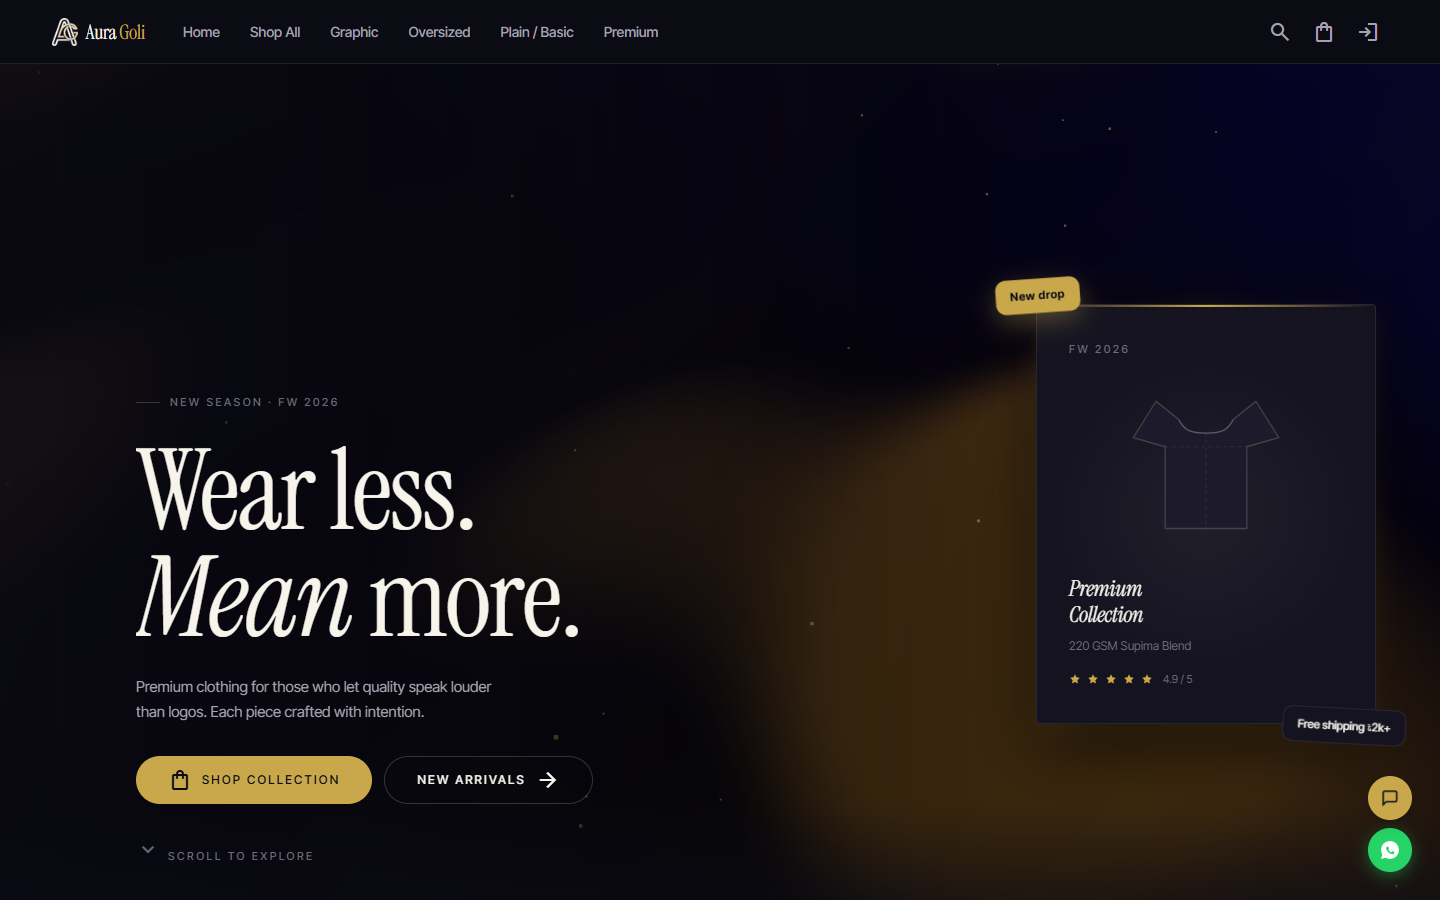
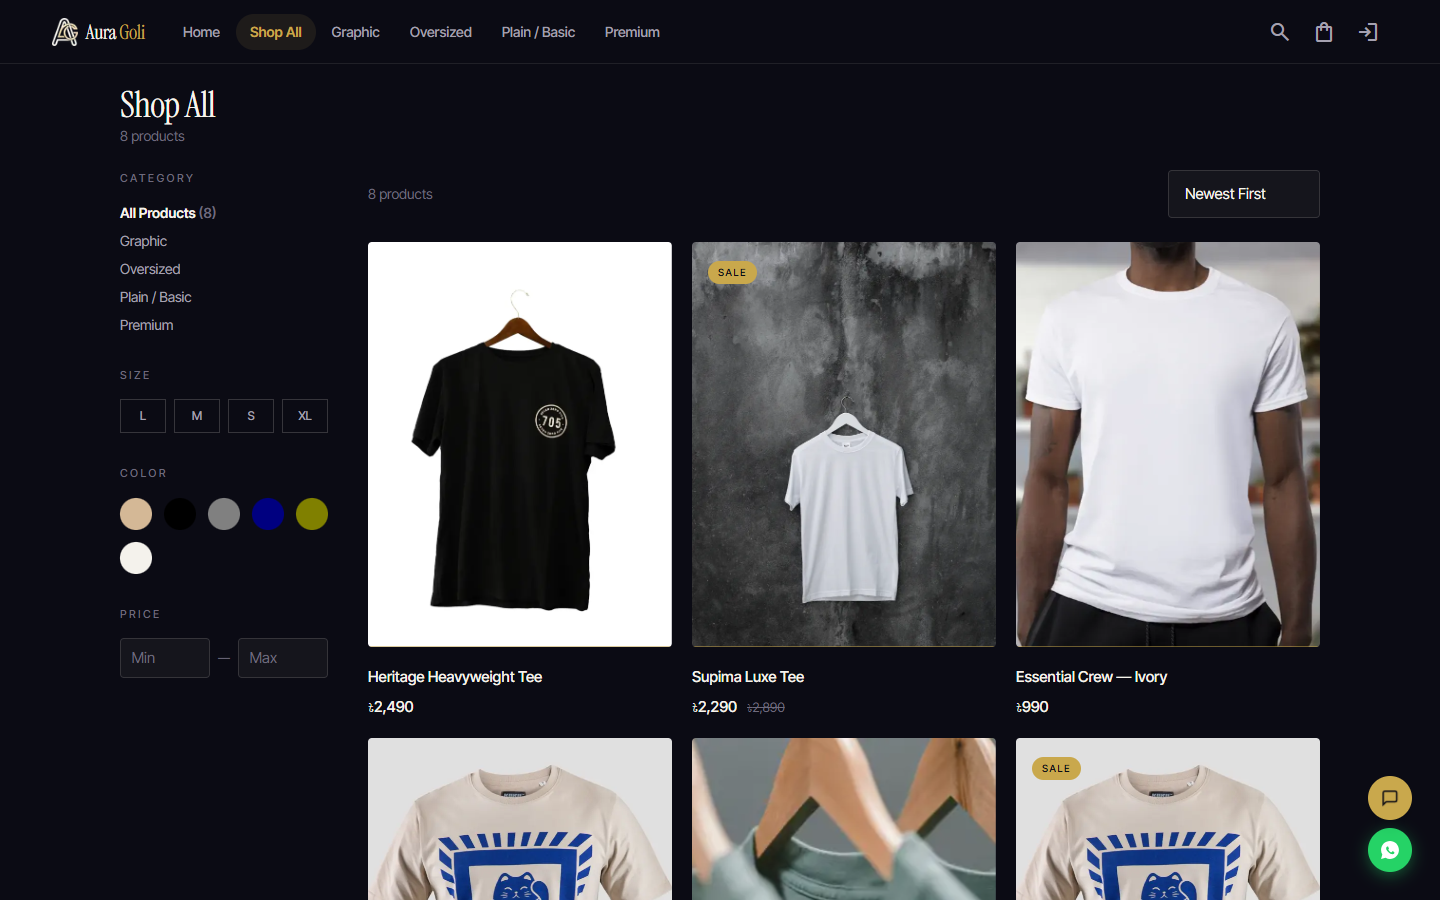
Visual polish: balanced headings, unified buttons, aligned grids
- text-wrap: balance on headings (no one-word widows); hero accent phrase never splits
- Hero glow bleeds instead of ending in a hard edge; 404 and thank-you use PageHero
- All CTAs go through ButtonLink (one primary, one secondary style)
- Pricing badge no longer pushes its card out of line; serif prices; process grid has no orphans
- Service cards get breathing room; avatar shown at a retina-sharp size
- Aura Goli screenshot now shows the shop page (no unverified rating)

diff --git a/app/page.tsx b/app/page.tsx
@@ -81,7 +81,7 @@ export default function Home() {
             <span className="hidden sm:inline">Web development studio · </span>Dhaka → worldwide
           </p>
           <h1 className="reveal mx-auto mt-6 max-w-5xl text-6xl leading-[0.95] sm:text-8xl lg:text-[6.5rem]" style={{ ["--d" as string]: "80ms" }}>
-            Websites, online stores and web apps, <span className="text-gradient">built properly.</span>
+            Websites, online stores and web apps, <span className="text-gradient whitespace-nowrap">built properly.</span>
           </h1>
           <p className="reveal mx-auto mt-7 max-w-2xl text-lg leading-relaxed text-muted" style={{ ["--d" as string]: "160ms" }}>
             Zordev is a small studio run by {site.owner.name}. Shipped on a fixed scope, and you work directly with the developer who builds it.
@@ -167,15 +167,15 @@ export default function Home() {
               className="group relative flex min-h-[26rem] flex-col bg-surface p-8 transition-colors duration-300 hover:bg-surface-2 focus-visible:outline-offset-[-4px]"
             >
               <div className="flex items-center justify-between">
-                <span className="font-mono text-xs text-orange">0{i + 1}</span>
-                <span className="flex h-10 w-10 items-center justify-center rounded-full border border-line-strong text-ink transition-all duration-300 group-hover:-rotate-45 group-hover:border-orange group-hover:bg-orange group-hover:text-[#0c0c0c]">
+                <span aria-hidden="true" className="font-mono text-xs text-orange">0{i + 1}</span>
+                <span aria-hidden="true" className="flex h-10 w-10 items-center justify-center rounded-full border border-line-strong text-ink transition-all duration-300 group-hover:-rotate-45 group-hover:border-orange group-hover:bg-orange group-hover:text-[#0c0c0c]">
                   →
                 </span>
               </div>
-              <div className="mt-10 flex h-28 items-end transition-transform duration-500 group-hover:-translate-y-1">{serviceArt[s.slug]}</div>
+              <div aria-hidden="true" className="mt-10 flex h-28 items-end transition-transform duration-500 group-hover:-translate-y-1">{serviceArt[s.slug]}</div>
               <h3 className="mt-10 text-4xl leading-none text-ink">{s.title}</h3>
-              <p className="mt-4 leading-relaxed text-muted">{s.short}</p>
-              <p className="mt-auto flex items-center justify-between border-t border-line pt-5 font-mono text-xs text-muted">
+              <p className="mb-8 mt-4 leading-relaxed text-muted">{s.short}</p>
+              <p className="mt-auto flex items-center justify-between gap-3 whitespace-nowrap border-t border-line pt-5 font-mono text-xs text-muted">
                 <span>
                   from <span className="text-ink">{usd(s.fromPrice)}</span>
                 </span>

diff --git a/components/layout/Footer.tsx b/components/layout/Footer.tsx
@@ -2,7 +2,7 @@ import Link from "next/link";
 import { services } from "@/content/services";
 import { cta, site } from "@/content/site";
 import { sortedCaseStudies } from "@/content/work";
-import { Container } from "@/components/ui";
+import { ButtonLink, Container } from "@/components/ui";
 import { Marquee } from "@/components/ui/Marquee";
 import { DhakaClock } from "./DhakaClock";
 import { Logo } from "./Logo";
@@ -41,15 +41,10 @@ export function Footer() {
           <div className="mt-8 rounded-2xl border border-line bg-surface p-5">
             <DhakaClock />
             <div className="mt-5 flex flex-wrap gap-2 border-t border-line pt-5">
-              <Link
-                href={cta.primary.href}
-                data-umami-event="cta_click"
-                data-umami-event-location="footer"
-                className="magnetic inline-flex items-center rounded-full bg-orange px-4 py-2 text-sm font-medium text-[#0c0c0c] hover:bg-ink"
-              >
-                {cta.primary.label} →
-              </Link>
-              <a href={`mailto:${site.email}`} className="inline-flex items-center rounded-full border border-line-strong px-4 py-2 text-sm text-ink transition-colors hover:border-orange hover:text-orange">
+              <ButtonLink href={cta.primary.href} location="footer">
+                {cta.primary.label}
+              </ButtonLink>
+              <a href={`mailto:${site.email}`} className="inline-flex min-h-12 items-center rounded-full border border-line-strong px-5 text-sm text-ink transition-colors hover:border-orange hover:text-orange">
                 {site.email}
               </a>
             </div>

diff --git a/app/not-found.tsx b/app/not-found.tsx
@@ -1,24 +1,19 @@
-import { ButtonLink, Container } from "@/components/ui";
+import { ButtonLink, PageHero } from "@/components/ui";
 
 export const metadata = { title: "Page not found", robots: { index: false } };
 
 export default function NotFound() {
   return (
-    <section className="relative overflow-hidden"><div aria-hidden="true" className="pointer-events-none absolute -top-40 right-0 h-[28rem] w-[28rem] rounded-full bg-orange/[0.07] blur-[120px]" />
-      <Container className="relative py-28">
-        <p className="font-mono text-sm text-orange">404</p>
-        <h1 className="mt-5 text-6xl leading-[0.98] sm:text-8xl">This page doesn't exist.</h1>
-        <p className="mt-5 max-w-lg text-lg text-muted">The link may be old or mistyped. Here are a few places to go instead.</p>
-        <div className="mt-9 flex flex-wrap gap-3">
-          <ButtonLink href="/">Home</ButtonLink>
-          <ButtonLink href="/work" variant="ghostDark">
-            See the work
-          </ButtonLink>
-          <ButtonLink href="/contact" variant="ghostDark">
-            Contact
-          </ButtonLink>
-        </div>
-      </Container>
-    </section>
+    <PageHero eyebrow="404" title="This page doesn't exist." intro="The link may be old or mistyped. Here are a few places to go instead.">
+      <div className="flex flex-wrap gap-3">
+        <ButtonLink href="/">Home</ButtonLink>
+        <ButtonLink href="/work" variant="ghost">
+          See the work
+        </ButtonLink>
+        <ButtonLink href="/contact" variant="ghost">
+          Contact
+        </ButtonLink>
+      </div>
+    </PageHero>
   );
 }

diff --git a/app/thank-you/page.tsx b/app/thank-you/page.tsx
@@ -1,6 +1,6 @@
 import Link from "next/link";
 import { ThankYouNext } from "@/components/forms/ThankYouNext";
-import { Container, Section } from "@/components/ui";
+import { PageHero, Section } from "@/components/ui";
 import { site } from "@/content/site";
 
 export const metadata = { title: "Thanks for your brief", robots: { index: false, follow: false } };
@@ -8,15 +8,15 @@ export const metadata = { title: "Thanks for your brief", robots: { index: false
 export default function ThankYouPage() {
   return (
     <>
-      <section className="relative overflow-hidden"><div aria-hidden="true" className="pointer-events-none absolute -top-40 right-0 h-[28rem] w-[28rem] rounded-full bg-orange/[0.07] blur-[120px]" />
-        <Container className="relative py-20">
-          <p className="font-mono text-xs uppercase tracking-[0.2em] text-orange">Brief received</p>
-          <h1 className="mt-5 text-6xl leading-[0.98] sm:text-8xl">Thanks, I've got it.</h1>
-          <p className="mt-5 max-w-xl text-lg text-muted">
-            A confirmation is on its way to your inbox. I'll read your brief myself and reply {site.commitments.replySla}.
-          </p>
-        </Container>
-      </section>
+      <PageHero
+        eyebrow="Brief received"
+        title={
+          <>
+            Thanks, I&apos;ve <em className="text-orange">got it.</em>
+          </>
+        }
+        intro={`A confirmation is on its way to your inbox. I'll read your brief myself and reply ${site.commitments.replySla}.`}
+      />
       <Section>
         <div className="grid gap-10 md:grid-cols-2">
           <div>

diff --git a/app/contact/page.tsx b/app/contact/page.tsx
@@ -1,6 +1,6 @@
 import { Booking } from "@/components/forms/Booking";
 import { ContactForm } from "@/components/forms/ContactForm";
-import { Heading, Section, T, PageHero } from "@/components/ui";
+import { ButtonLink, Heading, Section, T, PageHero } from "@/components/ui";
 import { site } from "@/content/site";
 import { pageMeta } from "@/lib/seo";
 
@@ -15,8 +15,12 @@ export default function ContactPage() {
     <>
       <PageHero eyebrow="Contact" title={<>Let&apos;s build <span className="text-gradient">something good.</span></>} intro={`Two ways to start. Either way, you will hear back from me ${site.commitments.replySla}.`}>
         <div className="flex flex-wrap gap-3">
-          <a href="#book" data-umami-event="cta_click" data-umami-event-location="contact_hero_book" className="magnetic rounded-full bg-orange px-5 py-3 text-sm font-semibold text-[#0c0c0c]">Book a 20-minute call</a>
-          <a href="#brief" data-umami-event="cta_click" data-umami-event-location="contact_hero_brief" className="rounded-full border border-line-strong px-5 py-3 text-sm font-semibold hover:border-ink">Send a project brief</a>
+          <ButtonLink href="#book" location="contact_hero_book">
+            Book a 20-minute call
+          </ButtonLink>
+          <ButtonLink href="#brief" variant="ghost" location="contact_hero_brief">
+            Send a project brief
+          </ButtonLink>
         </div>
       </PageHero>
 

diff --git a/app/pricing/page.tsx b/app/pricing/page.tsx
@@ -28,17 +28,17 @@ export default function PricingPage() {
           {packages.map((p) => (
             <div
               key={p.id}
-              className={`flex flex-col rounded-2xl border p-7 ${p.highlighted ? "border-orange shadow-lg ring-1 ring-orange" : "border-line"}`}
+              className={`relative flex flex-col rounded-2xl border p-7 ${p.highlighted ? "border-orange shadow-lg ring-1 ring-orange" : "border-line"}`}
             >
               {p.highlighted && (
-                <div className="mb-3">
-                  <Badge tone="orange">Most experience</Badge>
+                <div className="absolute -top-3 left-7">
+                  <Badge tone="orange">Most built</Badge>
                 </div>
               )}
-              <h2 className="text-xl">{p.name}</h2>
-              <p className="mt-1 text-sm text-muted">{p.suits}</p>
+              <h2 className="text-3xl">{p.name}</h2>
+              <p className="mt-1 min-h-[2lh] text-sm text-muted">{p.suits}</p>
               <p className="mt-5 text-sm text-muted">From</p>
-              <p className="text-4xl font-bold">{usd(p.fromPrice)}</p>
+              <p className="font-display text-5xl">{usd(p.fromPrice)}</p>
               <p className="mt-1 font-mono text-xs text-muted">{p.timeline}</p>
               <ul className="mt-6 space-y-2 text-sm">
                 {p.includes.map((i) => (

diff --git a/components/sections/PriceEstimator.tsx b/components/sections/PriceEstimator.tsx
@@ -1,6 +1,6 @@
 "use client";
 
-import Link from "next/link";
+import { ButtonLink } from "@/components/ui";
 import { useState } from "react";
 import type { Package } from "@/content/pricing";
 
@@ -74,17 +74,12 @@ export function PriceEstimator({ packages, addOn }: { packages: Package[]; addOn
             <p className="mt-4 text-sm text-muted">{p.suits}. Final price is fixed after a short call, for an agreed scope.</p>
           </div>
           <div className="flex flex-wrap gap-3">
-            <Link
-              href="/contact#book"
-              data-umami-event="cta_click"
-              data-umami-event-location="estimator"
-              className="magnetic inline-flex min-h-12 items-center rounded-full bg-orange px-6 font-medium text-[#0c0c0c] hover:bg-ink"
-            >
-              Book a call →
-            </Link>
-            <Link href="/pricing" className="inline-flex min-h-12 items-center rounded-full border border-line-strong px-6 font-medium text-ink hover:border-ink">
+            <ButtonLink href="/contact#book" location="estimator">
+              Book a call
+            </ButtonLink>
+            <ButtonLink href="/pricing" variant="ghost">
               Full pricing
-            </Link>
+            </ButtonLink>
           </div>
         </div>
       </div>

diff --git a/components/forms/ThankYouNext.tsx b/components/forms/ThankYouNext.tsx
@@ -1,6 +1,7 @@
 "use client";
 
 import Link from "next/link";
+import { ButtonLink } from "@/components/ui";
 import { useSyncExternalStore } from "react";
 
 const readQualified = () => {
@@ -23,21 +24,11 @@ export function ThankYouNext({ bookingUrl }: { bookingUrl: string }) {
       <div className="rounded-2xl bg-paper p-7">
         <h2 className="text-2xl">Want to talk sooner?</h2>
         <p className="mt-3 text-muted">Book a free 20-minute call at a time that suits you.</p>
-        {bookingUrl ? (
-          <a
-            href={bookingUrl}
-            target="_blank"
-            rel="noopener"
-            data-umami-event="booking_open"
-            className="mt-6 inline-flex min-h-11 items-center rounded-full bg-orange px-6 py-3 font-medium text-[#0c0c0c] hover:bg-ink"
-          >
+        <div className="mt-6">
+          <ButtonLink href={bookingUrl || "/contact#book"} location="thank_you">
             Book a call
-          </a>
-        ) : (
-          <Link href="/contact#book" className="mt-6 inline-flex min-h-11 items-center rounded-full bg-orange px-6 py-3 font-medium text-[#0c0c0c] hover:bg-ink">
-            Book a call
-          </Link>
-        )}
+          </ButtonLink>
+        </div>
       </div>
     );
   }

diff --git a/app/work/[slug]/page.tsx b/app/work/[slug]/page.tsx
@@ -14,7 +14,7 @@ export async function generateMetadata({ params }: PageProps<"/work/[slug]">) {
   const { slug } = await params;
   const c = getCaseStudy(slug);
   if (!c) return {};
-  return pageMeta(`${c.title} (${c.client.split(" (")[0]})`, c.summary, `/work/${c.slug}`);
+  return pageMeta(`${c.client.split(" (")[0]}: ${c.title} (case study)`, c.summary, `/work/${c.slug}`);
 }
 
 export default async function CaseStudyPage({ params }: PageProps<"/work/[slug]">) {
@@ -35,7 +35,7 @@ export default async function CaseStudyPage({ params }: PageProps<"/work/[slug]"
           { name: c.title, path: `/work/${c.slug}` },
         ])}
       />
-      <section className="relative overflow-hidden border-b border-line">
+      <section className="relative overflow-x-clip border-b border-line">
         
         <div aria-hidden="true" className="pointer-events-none absolute -top-40 right-0 h-[28rem] w-[28rem] rounded-full bg-orange/[0.07] blur-[120px]" />
         <Container className="relative grid items-center gap-12 py-16 sm:py-24 lg:grid-cols-[1.1fr_1fr]">

diff --git a/components/sections/Avatar3D.tsx b/components/sections/Avatar3D.tsx
@@ -40,7 +40,7 @@ export function Avatar3D() {
         style={{ transform: `translate(calc(-50% + ${look.x * 18}px), calc(-50% + ${look.y * 14}px))` }}
       />
       {/* Ground shadow */}
-      <div className="absolute bottom-[13%] left-1/2 h-5 w-40 -translate-x-1/2 rounded-[50%] bg-black/70 blur-md" />
+      <div className="absolute bottom-[24%] left-1/2 h-4 w-28 -translate-x-1/2 rounded-[50%] bg-black/70 blur-md" />
 
       <div className="absolute inset-0 flex items-center justify-center [perspective:900px]">
         <div className="animate-float">
@@ -54,7 +54,7 @@ export function Avatar3D() {
               width={256}
               height={256}
               priority
-              className="h-auto w-[220px] select-none drop-shadow-[0_24px_30px_rgba(0,0,0,0.55)] sm:w-[256px]"
+              className="h-auto w-[160px] select-none drop-shadow-[0_24px_30px_rgba(0,0,0,0.55)]"
             />
           </div>
         </div>

diff --git a/components/ui/index.tsx b/components/ui/index.tsx
@@ -66,8 +66,8 @@ export function Heading({
 /** Inner-page header: oversized serif title with intro set in a side column. */
 export function PageHero({ eyebrow, title, intro, children }: { eyebrow: string; title: ReactNode; intro?: string; children?: ReactNode }) {
   return (
-    <section className="relative overflow-hidden">
-      
+    // overflow-x-clip (not overflow-hidden) lets the glow bleed upward instead of ending in a hard edge.
+    <section className="relative overflow-x-clip">
       <div aria-hidden="true" className="pointer-events-none absolute -top-40 right-[10%] h-[26rem] w-[26rem] rounded-full bg-orange/[0.07] blur-[120px]" />
       <Container className="relative pb-16 pt-16 sm:pb-24 sm:pt-24">
         <div className="reveal">

diff --git a/content/work.ts b/content/work.ts
@@ -113,7 +113,7 @@ export const caseStudies: CaseStudy[] = [
       "Bilingual AI customer support with human handover",
     ],
     gallery: [
-      { src: "/work/aura-goli/desktop.png", alt: "Aura Goli storefront home page", device: "desktop" },
+      { src: "/work/aura-goli/desktop.png", alt: "Aura Goli shop page with category, size, colour and price filters and a product grid", device: "desktop" },
       { src: "art:aura-goli", alt: "Illustration of the admin revenue chart and a bilingual chat assistant conversation", device: "desktop" },
     ],
     featured: true,
